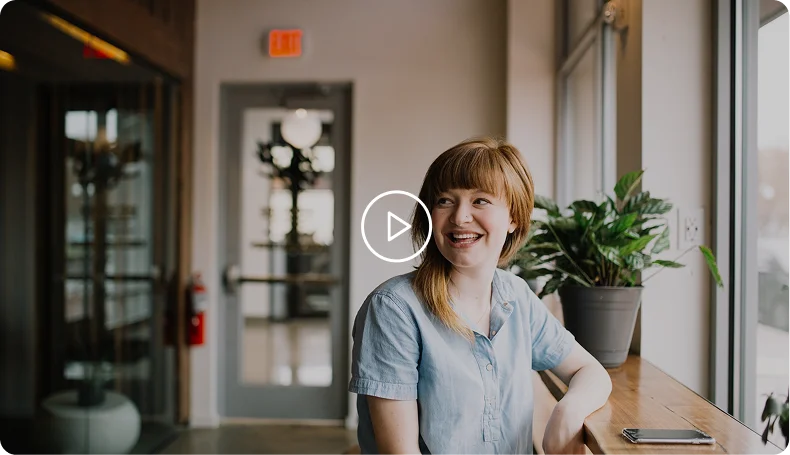
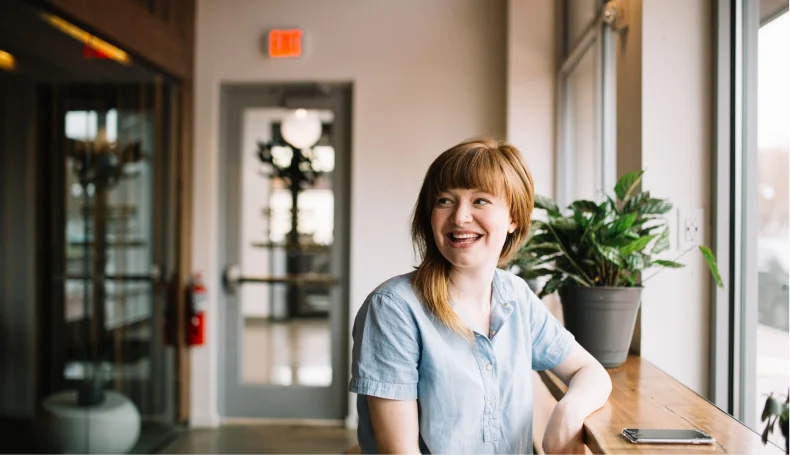
success section

diff --git a/index.html b/index.html
@@ -1,11 +1,14 @@
 <!DOCTYPE html>
 <html lang="en">
+
 <head>
     <meta charset="UTF-8">
     <meta name="viewport" content="width=device-width, initial-scale=1.0">
     <link rel="preconnect" href="https://fonts.googleapis.com">
     <link rel="preconnect" href="https://fonts.gstatic.com" crossorigin>
-    <link href="https://fonts.googleapis.com/css2?family=Lato:ital,wght@0,100;0,300;0,400;0,700;0,900;1,100;1,300;1,400;1,700;1,900&display=swap" rel="stylesheet">
+    <link
+        href="https://fonts.googleapis.com/css2?family=Lato:ital,wght@0,100;0,300;0,400;0,700;0,900;1,100;1,300;1,400;1,700;1,900&display=swap"
+        rel="stylesheet">
     <link rel="stylesheet" href="index.css">
     <link rel="icon" href="assets/favicon.png" type="image/png">
     <title>Alivio</title>
@@ -42,8 +45,8 @@
             </div>
         </div>
     </header>
-    
- <main>
+
+    <main>
         <section class="hero" aria-label="hero section" id="hero-id">
             <div class="container">
                 <div class="hero__content">
@@ -67,24 +70,48 @@
                 <div class="about__cards">
                     <figure class="card" aria-label="first card">
                         <h3 class="card__title">Personalize</h3>
-                        <p class="card__desc" aria-label="first card description">Answer a quick survey about how you express yourself, what causes you stress, and what area would you like to work on. This way, we can fully personalize your journal!</p>
+                        <p class="card__desc" aria-label="first card description">Answer a quick survey about how you
+                            express yourself, what causes you stress, and what area would you like to work on. This way,
+                            we can fully personalize your journal!</p>
                         <img src="assets/webp/card_1.webp" alt="card image 1" class="card__img">
                     </figure>
 
                     <figure class="card" aria-label="second card">
                         <h3 class="card__title card__title--second card__title--right">Write & Understand</h3>
-                        <p class="card__desc" aria-label="second card description">Write, draw, reflect, understand. Alivio will guide you through the prompts and will help you manage your stress!</p>
+                        <p class="card__desc" aria-label="second card description">Write, draw, reflect, understand.
+                            Alivio will guide you through the prompts and will help you manage your stress!</p>
                         <img src="assets/webp/card_2.webp" alt="card image 2" class="card__img">
                     </figure>
 
                     <figure class="card" aria-label="third card">
                         <h3 class="card__title card__title--third">Alivio!</h3>
-                        <p class="card__desc" aria-label="third card description">Now you are aware, and have a way to manage and overcome your own stress. What are you waiting for? Alivio today!</p>
+                        <p class="card__desc" aria-label="third card description">Now you are aware, and have a way to
+                            manage and overcome your own stress. What are you waiting for? Alivio today!</p>
                         <img src="assets/webp/card_3.webp" alt="card image 3" class="card__img">
                     </figure>
+                </div>
+        </section>
+
+
+        <section class="success" aria-label="success section" id="success-id">
+            <div class="container">
+                <div class="success__wrapper">
+                    <div class="success__content">
+                        <h3 class="success__title">Let's hear about Kayla's success story</h3>
+                        <p class="success__description">See how well Alivio works in a real customer’s life.</p>
+                        <button class="btn">Let's get started</button>
+                    </div>
+
+                    <div class="success__content-video">
+                        <img src="assets/webp/video_cover.webp" class="success__cover" alt="video cover img">
+                        <svg class="success__play-icon" aria-label="play icon">
+                            <use href="assets/sprites.svg#play-icon"></use>
+                        </svg>
+                        <div class="success__gradient"></div>
+                    </div>
+                </div>
             </div>
         </section>
     </main>
 </body>
 </html>
-

diff --git a/styles/success.css b/styles/success.css
@@ -1,0 +1,106 @@
+.success {
+    background-color: var(--co-dark-green);
+}
+
+.success__wrapper {
+    padding: 220px 0;
+    display: flex;
+    justify-content: space-between;
+    align-items: start;
+    flex-wrap: wrap;
+    gap: 40px;
+}
+
+.success__content {
+    margin: 50px 0 0 0;
+    max-width: 550px;
+    display: flex;
+    flex-direction: column;
+    justify-content: start;
+    align-items: start;
+    gap: 20px;
+}
+
+.success__title {
+    color: var(--co-white);
+    font-size: 50px;
+    font-weight: 700;
+
+}
+
+.success__description {
+    color: var(--co-white);
+    font-size: 25px;
+    font-weight: 600;
+}
+
+.success__content .btn {
+    margin: 50px 0 0 0;
+    width: 240px;
+    height: 65px;
+}
+
+.success__content .btn:hover {
+    outline: 2px solid var(--co-white);
+
+}
+
+.success__content-video { 
+    max-width: 790px;
+    height: 455px;
+    position: relative;
+    border-radius: 16px;
+    overflow: hidden;
+}
+
+.success__cover {
+    width: 100%;
+    height: 100%;
+    object-fit: cover;
+    aspect-ratio: 159/91;
+}
+
+.success__play-icon {
+    position: absolute;
+    z-index: 2;
+    width: 72px;
+    height: 73px;
+    fill: var(--co-white);
+    top: 50%;
+    left: 50%;
+    translate: -50% -50%;
+}
+
+.success__play-icon:hover {
+    fill: var(--co-green);
+    cursor: pointer;
+}
+
+.success__gradient {
+    position: absolute;
+    z-index: 1;
+    inset: 0;
+    background: linear-gradient(180deg, rgba(0,0,0, .1), rgba(0,0,0,.5)) center/cover no-repeat;
+}
+
+@media (max-width:1370px) {
+    .success__wrapper {
+        justify-content: center;
+    }
+    .success__content {
+        text-align: center;
+        place-items: center start;
+    }
+}
+
+@media (max-width:576px) {
+    .success__wrapper {
+        padding: 150px 0;
+    }
+    .success__title {
+        font-size: 32px;
+    }
+    .success__description {
+        font-size: 20px;
+    }
+}

diff --git a/index.css b/index.css
@@ -4,3 +4,4 @@
 @import url('styles/hero.css');
 @import url('styles/about.css');
 @import url('styles/card.css');
+@import url('styles/success.css');
